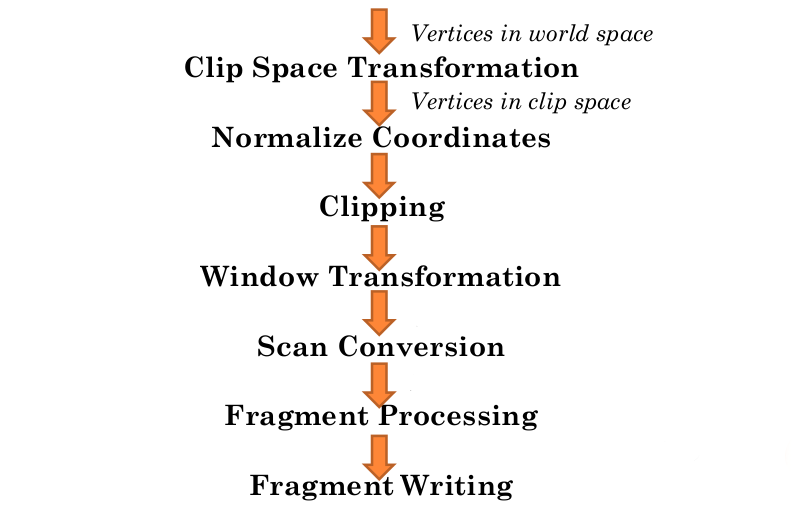
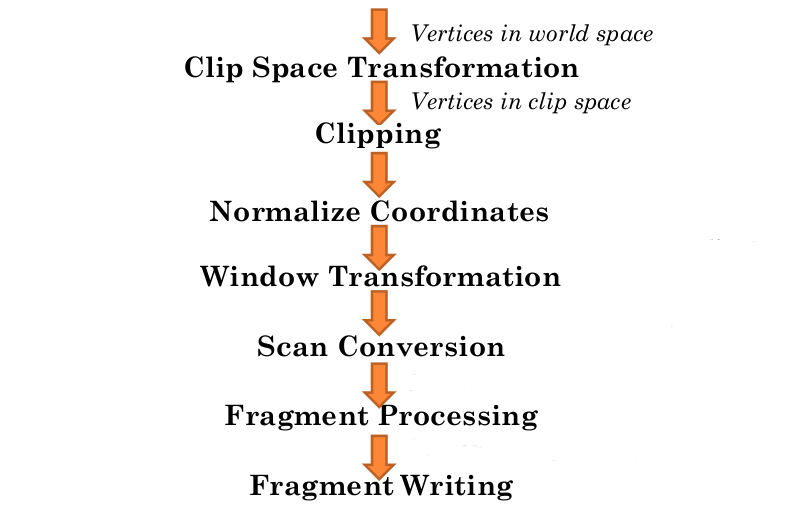
fix ordering of pipeline wrt clipping and NDC. Clipping happens before conversion to NDC

Changed region(s): [[0.2727, 0.2183, 0.697, 0.3119], [0.2727, 0.3431, 0.697, 0.4366]]

diff --git a/topics/pipelineOverview.md b/topics/pipelineOverview.md
@@ -33,17 +33,6 @@ The pipeline is fed (*somehow, we'll cover later*) with **vertices** in **WORLD 
 
 ![pipelineOverview02verticesInClipSpace](assets/pipelineOverview/pipelineOverview02verticesInClipSpace.png)\ 
 
-##Normalized Device Coordinates
-
-- Clip space is interesting, but inconvenient
-    - the extent of this space is different for each vertex, which makes visualizing a triangle rather difficult
-- The X, Y, and Z of each vertex's position is divided by W to get normalized device coordinates
-    - basically the same as clip space except that the range of X, Y and Z are **[-1, 1]**
-
-#Vertices in Normalized Device Coordinates
-
-![pipelineOverview03verticesInNormalizedDeviceCoordinates](assets/pipelineOverview/pipelineOverview03verticesInNormalizedDeviceCoordinates.png)\ 
-
 ##Clipping
 
 - Triangles not **fully** in **clip space** (the [-1,1] cube) we want to **clip**
@@ -57,9 +46,20 @@ The pipeline is fed (*somehow, we'll cover later*) with **vertices** in **WORLD 
 - Triangles are complicated
     - may need to make more triangles
 
-#Vertices in Clipped NDC
+#Vertices in Normalized Device Coordinates
 
-![pipelineOverview04verticesInNormalizedDeviceCoordinatesClipped](assets/pipelineOverview/pipelineOverview04verticesInNormalizedDeviceCoordinatesClipped.png)\ 
+![pipelineOverview03verticesInNormalizedDeviceCoordinates](assets/pipelineOverview/pipelineOverview03verticesThatHaveBeenClipped.png)\ 
+
+##Normalized Device Coordinates
+
+- Clip space is interesting, but inconvenient
+    - the extent of this space is different for each vertex, which makes visualizing a triangle rather difficult
+- The X, Y, and Z of each vertex's position is divided by W to get normalized device coordinates
+    - basically the same as clip space except that the range of X, Y and Z are **[-1, 1]**
+
+#Vertices in NDC
+
+![pipelineOverview04verticesInNormalizedDeviceCoordinatesClipped](assets/pipelineOverview/pipelineOverview04verticesInNormalizedDeviceCoordinates.png)\ 
 
 ##Window Transformation
 
